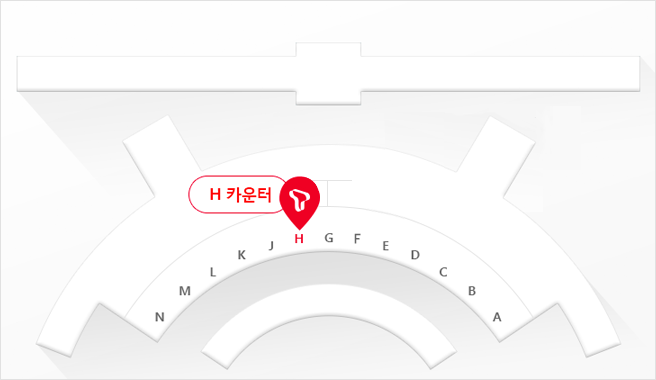
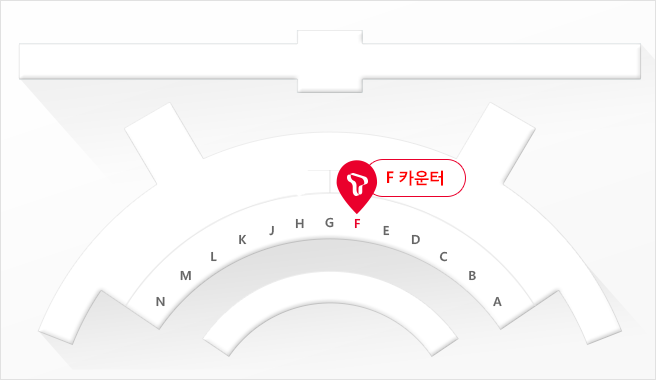
Web Contents Merge FROM a260a1c2246

diff --git a/src/client/web-contents/html/sprint8/RM_14_02_02.html b/src/client/web-contents/html/sprint8/RM_14_02_02.html
@@ -524,7 +524,7 @@
                                 <button id="flab04" class="bt-dropdown big" title="수령장소 선택" aria-haspopup="true">인천공항 2터미널 3층 로밍 센터(D-E 카운터)<span class="ico"></span></button>
                                 <!-- 200519 로밍 센터 운영 중단 관련 수정  [OP002-8458] -->
                                 <div class="mapimg-area pt10">
-                                	<img src="/img/product/place-img-01-h.png" alt="인천공항 1터미널 3층 로밍 센터(H 카운터)">
+                                	<img src="/img/product/place-img-01-f.png" alt="인천공항 1터미널 3층 로밍 센터(F 카운터)"><!-- 200702 수정 [OP002-9346] -->
                                 	<p class="rm-tx-hour"><strong>업무시간</strong> | 06:00 ~ 22:00</p>                                
                                 </div>
                                 <div class="mapimg-area pt10">
@@ -593,7 +593,7 @@
                             <p class="announcement-bullet type01">청구기준은 한국시간 기준으로 임대일로부터 반납일까지 입니다.</span></p><!-- 191213 수정 [OP002-5828] -->
                             <p class="announcement-bullet type01">대구 SKT 황금점 매장은 매주 일요일 휴무이므로 임대 시작일∙반납일자가 일요일인 경우 다른 장소를 선택해 주세요.</p>
                             <p class="announcement-bullet type01">로밍센터별 근무시간이 상이하므로 사전에 업무시간을 확인하신 후 방문해 주세요.<button class="bt-link-tx underline block">업무시간 상세보기</button></p>
-                            <p class="announcement-bullet type01 tod-txcolor7"><strong>코로나19로 인해 로밍 센터 부스 운영 현황 확인 후 예약해주시길 바랍니다.</strong><br><br>※ 현재 운영 중인 공항 및 부스<br>인천공항 제1터미널 3층 H카운터 (운영시간 06시~ 22시)<br>인천공항 제1터미널 1층 9~10번 사이 (운영시간 06시~22시)<br>인천공항 제2터미널 3층 D-E 사이 (운영시간 06시~22시)<br>인천공항 제2터미널 1층 2-3번 사이 (운영시간 06시~22시)</p><!-- 200519 로밍 센터 운영 중단 관련 수정  [OP002-8458] -->
+                            <p class="announcement-bullet type01 tod-txcolor7"><strong>코로나19로 인해 로밍 센터 부스 운영 현황 확인 후 예약해주시길 바랍니다.</strong><br><br>※ 현재 운영 중인 공항 및 부스<br>인천공항 제1터미널 3층 F 카운터 (운영시간 06시~ 22시)<br>인천공항 제1터미널 1층 9~10번 사이 (운영시간 06시~22시)<br>인천공항 제2터미널 3층 D-E 사이 (운영시간 06시~22시)<br>인천공항 제2터미널 1층 2-3번 사이 (운영시간 06시~22시)</p><!-- 200702 수정 [OP002-9346] -->
                         </div>
 
                     </div>

diff --git a/src/client/web-contents/html/sprint8/RM_15_01_01.html b/src/client/web-contents/html/sprint8/RM_15_01_01.html
@@ -93,7 +93,7 @@
                     <div class="mapimg-area"><img src="/img/product/place-img-01.png" alt="인천공항 1터미널 3층 로밍 센터(E-F 카운터)"/></div>
                     <!-- 200519 로밍 센터 운영 중단 관련 수정  [OP002-8458] -->
                     <div class="announcement-box">
-                    	<p class="announcement-bullet type01 tod-txcolor7"><strong>코로나19로 인해 현재 H 카운터 로밍 센터(운영시간 06시~ 22시)만 운영되고 있습니다. 이용에 참고 부탁드립니다.</strong></p>
+                    	<p class="announcement-bullet type01 tod-txcolor7"><strong>코로나19로 인해 현재 F 카운터 로밍 센터(운영시간 06시~ 22시)만 운영되고 있습니다. 이용에 참고 부탁드립니다.</strong></p><!-- 200702 수정 [OP002-9346] -->
                     </div>
                     <!-- // 200519 로밍 센터 운영 중단 관련 수정  [OP002-8458] -->
                     <table class="data-a mt20">

diff --git a/src/client/web-contents/html/sprint8/RM_14_03_02_01_01.html b/src/client/web-contents/html/sprint8/RM_14_03_02_01_01.html
@@ -96,7 +96,7 @@
                                 <button id="flab04" class="bt-dropdown big" title="수령장소 선택" aria-haspopup="true">인천공항 2터미널 3층 로밍 센터(D-E 카운터)<span class="ico"></span></button>
                                 <!-- 200519 로밍 센터 운영 중단 관련 수정  [OP002-8458] -->
                                 <div class="mapimg-area pt10">
-                                	<img src="/img/product/place-img-01-h.png" alt="인천공항 1터미널 3층 로밍 센터(H 카운터)">
+                                	<img src="/img/product/place-img-01-f.png" alt="인천공항 1터미널 3층 로밍 센터(F 카운터)"><!-- 200702 수정 [OP002-9346] -->
                                 	<p class="rm-tx-hour"><strong>업무시간</strong> | 06:00 ~ 22:00</p>                                
                                 </div>
                                 <div class="mapimg-area pt10">
